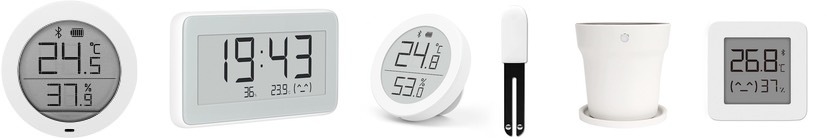
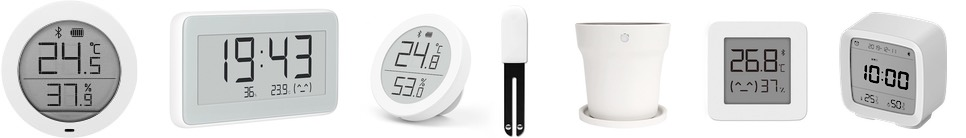
Beta test for Cleargrass CGD1 alarm clock

diff --git a/info.md b/info.md
@@ -8,15 +8,9 @@
 {% endif %}
 {% if installed or pending_update %}
 
-# Changes since 0.5.7
+# Changes since 0.6.1
 
-- encrypted BLE ADV payload decryption implemented
-- added new option `encryptors` to describe the correspondence between the mac-address of the sensor broadcasting encrypted adverts and the encryption key
-- LYWSD03MMC support ("encryptor")
-- added new option `report_unknown` designed to enable logging of all BLE ADV messages from unsupported Xiaomi ecosystem devices
-- error "Attribute hass is None for Entity..." fixed
-- fix for VegTrug Grow Care Garden sensor
-- other minor bugfixes and improvements
+- initial Cleargrass CGD1 alarm clock support
 
 ---
 {% endif %}
@@ -71,6 +65,10 @@ This custom component is an alternative for the standard build in [mitemp_bt](ht
 - LYWSD03MMC
 
   (small square body, segment LCD, broadcasts temperature and humidity once in about 10 minutes and battery once in an hour, advertisements are encrypted, therefore you need to set the key in your configuration, see for instructions the [encryptors](#configuration-variables) option.
+
+- CGD1 **BETA**
+
+  (Cleargrass (Qingping) CGD1 alarm clock, segment LCD, broadcasts temperature and humidity once in about 10 minutes? and battery once in an hour?, advertisements are encrypted, therefore you need to set the key in your configuration, the procedure is similar to the LYWSD03MMC sensor.
 
 *The amount of actually received data is highly dependent on the reception conditions (like distance and electromagnetic ambiance), readings numbers are indicated for good RSSI (Received Signal Strength Indicator) of about -70dBm till -75dBm.*
 

diff --git a/README.md b/README.md
@@ -49,6 +49,10 @@ This custom component is an alternative for the standard build in [mitemp_bt](ht
 
   (small square body, segment LCD, broadcasts temperature and humidity once in about 10 minutes and battery once in an hour, advertisements are encrypted, therefore you need to set the key in your configuration, see for instructions the [encryptors](#configuration-variables) option.
 
+- CGD1 **BETA**
+
+  (Cleargrass (Qingping) CGD1 alarm clock, segment LCD, broadcasts temperature and humidity once in about 10 minutes? and battery once in an hour?, advertisements are encrypted, therefore you need to set the key in your configuration, the procedure is similar to the LYWSD03MMC sensor.
+
 *The amount of actually received data is highly dependent on the reception conditions (like distance and electromagnetic ambiance), readings numbers are indicated for good RSSI (Received Signal Strength Indicator) of about -75 till -70dBm.*
 
 **Do you want to request support for a new sensor? In the [FAQ](https://github.com/custom-components/sensor.mitemp_bt/blob/master/faq.md#my-sensor-from-the-xiaomi-ecosystem-is-not-in-the-list-of-supported-ones-how-to-request-implementation) you can read instructions how to request support for other sensors.**
